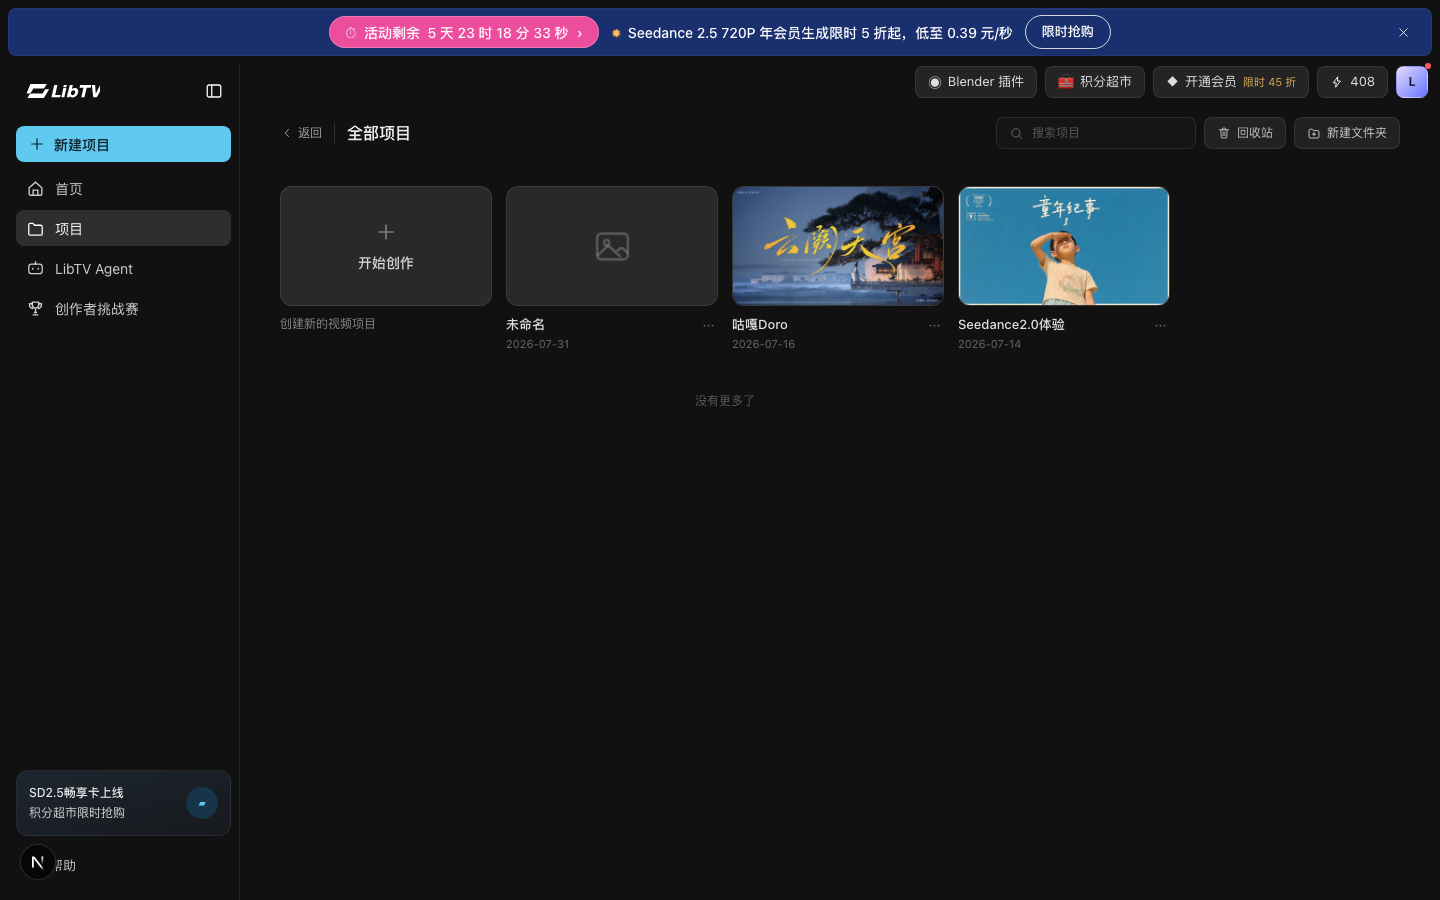
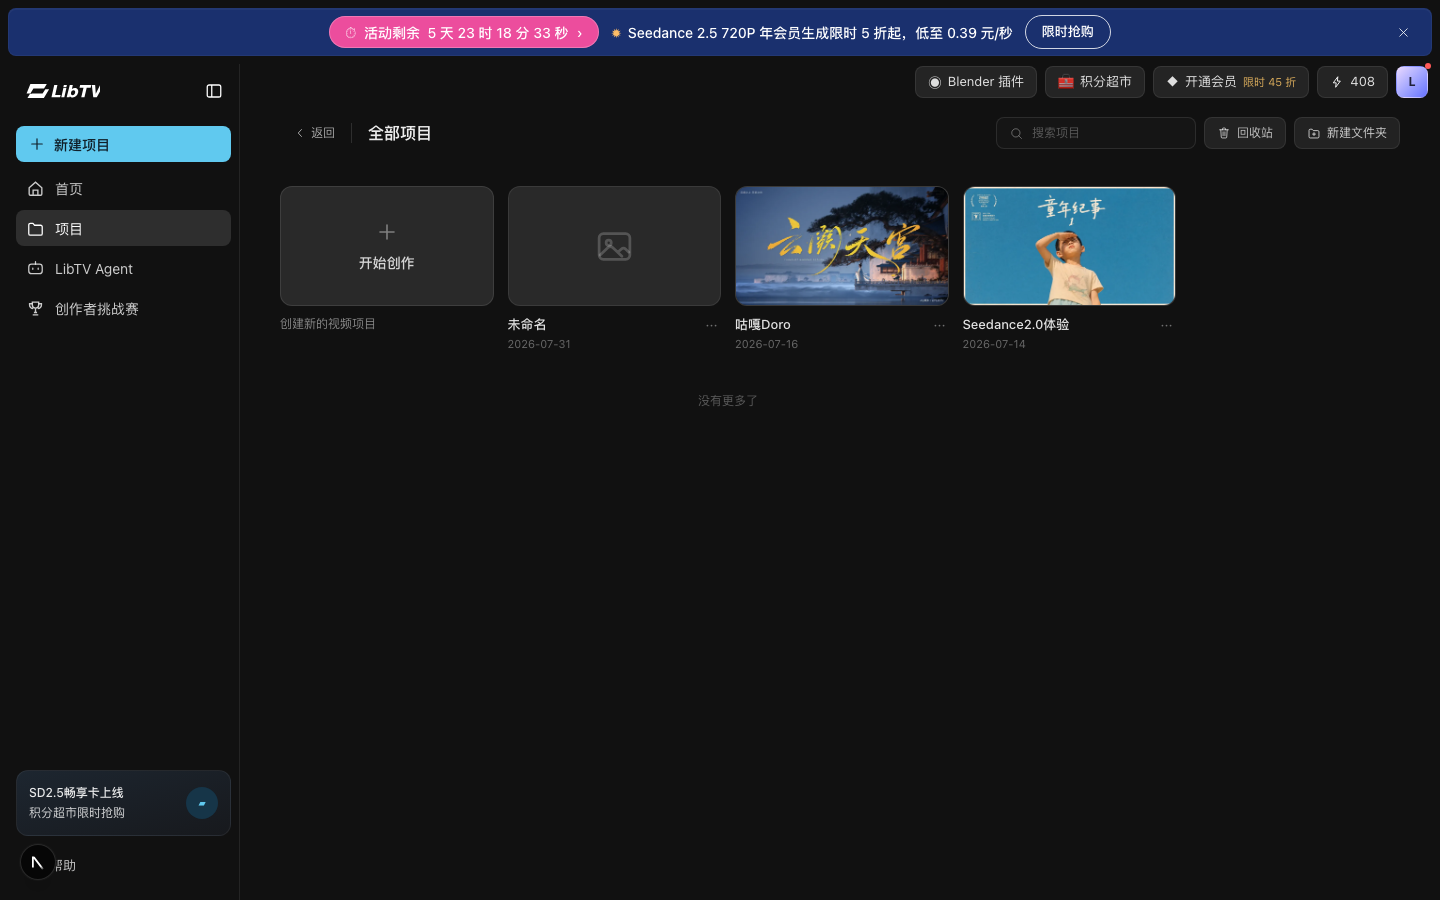
test: verify LibTV home and project parity

diff --git a/e2e/home-project.spec.ts b/e2e/home-project.spec.ts
@@ -36,8 +36,12 @@ test('authenticated shell collapses, reflows and persists with keyboard control'
 
   const expandedSidebar = await sidebar.boundingBox()
   const expandedContent = await content.boundingBox()
-  expect(expandedSidebar?.width).toBeGreaterThanOrEqual(228)
-  expect(expandedSidebar?.width).toBeLessThanOrEqual(236)
+  expect(expandedSidebar?.x).toBeGreaterThanOrEqual(7)
+  expect(expandedSidebar?.x).toBeLessThanOrEqual(9)
+  expect(expandedSidebar?.width).toBeGreaterThanOrEqual(230)
+  expect(expandedSidebar?.width).toBeLessThanOrEqual(234)
+  expect(expandedContent?.x).toBeGreaterThanOrEqual(238)
+  expect(expandedContent?.x).toBeLessThanOrEqual(242)
 
   const collapse = page.getByRole('button', { name: '收起侧边栏' })
   await collapse.focus()
@@ -47,7 +51,8 @@ test('authenticated shell collapses, reflows and persists with keyboard control'
   await expect(page.getByRole('button', { name: '展开侧边栏' })).toBeVisible()
   await expect.poll(async () => (await sidebar.boundingBox())?.width).toBeLessThanOrEqual(70)
   const collapsedContent = await content.boundingBox()
-  expect(collapsedContent?.x).toBeLessThan(expandedContent?.x ?? Number.POSITIVE_INFINITY)
+  expect(collapsedContent?.x).toBeGreaterThanOrEqual(66)
+  expect(collapsedContent?.x).toBeLessThanOrEqual(70)
 
   await page.reload()
   await expect(page.getByRole('button', { name: '展开侧边栏' })).toBeVisible()
@@ -83,7 +88,20 @@ test('project manager matches the four-card desktop layout and local interaction
   expect(firstCard?.x).toBeLessThanOrEqual(284)
   expect(firstCard?.width).toBeGreaterThanOrEqual(210)
   expect(firstCard?.width).toBeLessThanOrEqual(214)
+  expect(firstCard?.y).toBeGreaterThanOrEqual(178)
+  expect(firstCard?.y).toBeLessThanOrEqual(194)
   await page.screenshot({ path: 'docs/screenshots/libtv-project-local-1440x900.png', scale: 'css' })
+
+  await page.getByRole('button', { name: '收起侧边栏' }).click()
+  await expect.poll(async () => (await page.getByTestId('project-grid-item').first().boundingBox())?.x).toBeLessThanOrEqual(110)
+  const collapsedFirstCard = await page.getByTestId('project-grid-item').first().boundingBox()
+  expect(collapsedFirstCard?.x).toBeGreaterThanOrEqual(106)
+  expect(collapsedFirstCard?.x).toBeLessThanOrEqual(110)
+  expect(collapsedFirstCard?.width).toBeGreaterThanOrEqual(244)
+  expect(collapsedFirstCard?.width).toBeLessThanOrEqual(252)
+  await page.screenshot({ path: 'docs/screenshots/libtv-project-collapsed-local-1440x900.png', scale: 'css' })
+  await page.getByRole('button', { name: '展开侧边栏' }).click()
+  await expect.poll(async () => (await page.getByTestId('project-grid-item').first().boundingBox())?.x).toBeGreaterThanOrEqual(276)
 
   const search = page.getByRole('searchbox', { name: '搜索项目' })
   await search.fill('Doro')
@@ -123,8 +141,22 @@ test('home reproduces the campaign, creation, recent, Agent and TV Show hierarch
   const campaign = page.getByTestId('home-campaign-image')
   await expect(campaign).toBeVisible()
   await expect(campaign).toHaveAttribute('src', '/fixtures/libtv/home/theatre-banner.webp')
+  const campaignBox = await campaign.boundingBox()
+  expect(campaignBox?.x).toBeGreaterThanOrEqual(276)
+  expect(campaignBox?.x).toBeLessThanOrEqual(284)
+  expect(campaignBox?.y).toBeGreaterThanOrEqual(110)
+  expect(campaignBox?.y).toBeLessThanOrEqual(118)
+  expect(campaignBox?.width).toBeGreaterThanOrEqual(1116)
+  expect(campaignBox?.width).toBeLessThanOrEqual(1124)
+  expect(campaignBox?.height).toBeGreaterThanOrEqual(136)
+  expect(campaignBox?.height).toBeLessThanOrEqual(144)
   await expect(page.getByTestId('home-blank-canvas')).toBeVisible()
   await expect(page.getByTestId('creator-tool')).toHaveCount(6)
+  const creatorGridBox = await page.getByTestId('creator-tool-grid').boundingBox()
+  expect(creatorGridBox?.y).toBeGreaterThanOrEqual(270)
+  expect(creatorGridBox?.y).toBeLessThanOrEqual(286)
+  expect(creatorGridBox?.height).toBeGreaterThanOrEqual(198)
+  expect(creatorGridBox?.height).toBeLessThanOrEqual(202)
   await expect(page.getByTestId('home-recent-project')).toHaveCount(3)
 
   await expect(page.getByTestId('home-composer')).toHaveAttribute('placeholder', /说出你的创意/)

diff --git a/src/components/project/ProjectListPage.tsx b/src/components/project/ProjectListPage.tsx
@@ -184,21 +184,21 @@ export function ProjectListPage() {
 
         <section aria-label="项目列表" className="px-10 pb-16 pt-[26px]">
           {loading ? (
-            <div className="flex w-[890px] justify-center py-20 text-white/35">
+            <div className="flex w-4/5 justify-center py-20 text-white/35">
               <Spinner size={22} />
             </div>
           ) : (
             <>
-              <div className="grid w-[890px] grid-cols-[repeat(4,212px)] gap-x-[14px] gap-y-7">
-                <div data-testid="project-grid-item" className="w-[212px]">
+              <div data-testid="project-grid" className="grid w-4/5 grid-cols-4 gap-x-[14px] gap-y-7">
+                <div data-testid="project-grid-item" className="min-w-0">
                   <button
                     type="button"
                     data-testid="start-create"
                     data-grid-kind="create"
                     onClick={createProject}
-                    className="group w-[212px] text-left"
+                    className="group w-full text-left"
                   >
-                    <span className="flex h-[120px] w-[212px] flex-col items-center justify-center gap-2 rounded-xl border border-white/[0.1] bg-[#292929] text-white/80 transition-colors group-hover:border-white/[0.18] group-hover:bg-[#2d2d2d]">
+                    <span className="flex h-[120px] w-full flex-col items-center justify-center gap-2 rounded-xl border border-white/[0.1] bg-[#292929] text-white/80 transition-colors group-hover:border-white/[0.18] group-hover:bg-[#2d2d2d]">
                       <IconPlus size={24} className="text-white/40" />
                       <span className="text-[14px] font-medium">开始创作</span>
                     </span>
@@ -207,7 +207,7 @@ export function ProjectListPage() {
                 </div>
 
                 {visibleFolders.map((folder) => (
-                  <div key={folder.id} data-testid="project-grid-item" className="w-[212px]">
+                  <div key={folder.id} data-testid="project-grid-item" className="min-w-0">
                     <FolderCard
                       folder={folder}
                       renaming={renamingId === folder.id}
@@ -228,7 +228,7 @@ export function ProjectListPage() {
                 ))}
 
                 {visibleProjects.map((project) => (
-                  <div key={project.id} data-testid="project-grid-item" className="w-[212px]">
+                  <div key={project.id} data-testid="project-grid-item" className="min-w-0">
                     <ProjectCard
                       project={project}
                       renaming={renamingId === project.id}
@@ -249,10 +249,10 @@ export function ProjectListPage() {
               </div>
 
               {visibleProjects.length === 0 && visibleFolders.length === 0 && normalizedQuery && (
-                <p className="w-[890px] pt-12 text-center text-[12px] text-white/32">没有匹配的项目</p>
+                <p className="w-4/5 pt-12 text-center text-[12px] text-white/32">没有匹配的项目</p>
               )}
               {(visibleProjects.length > 0 || visibleFolders.length > 0) && (
-                <p className="w-[890px] pt-10 text-center text-[12px] text-white/30">没有更多了</p>
+                <p className="w-4/5 pt-10 text-center text-[12px] text-white/30">没有更多了</p>
               )}
             </>
           )}

diff --git a/src/components/project/ProjectCard.tsx b/src/components/project/ProjectCard.tsx
@@ -26,11 +26,11 @@ export function ProjectCard({ project, renaming, onRenameCancel, onRenameCommit,
     <article
       data-testid={`project-card-${project.id}`}
       data-grid-kind="project"
-      className="group w-[212px]"
+      className="group w-full"
     >
       <Link
         href={`/canvas?projectId=${encodeURIComponent(project.id)}`}
-        className="flex h-[120px] w-[212px] items-center justify-center overflow-hidden rounded-xl border border-white/[0.08] bg-[#292929] text-white/20 transition-colors hover:border-white/[0.17]"
+        className="flex h-[120px] w-full items-center justify-center overflow-hidden rounded-xl border border-white/[0.08] bg-[#292929] text-white/20 transition-colors hover:border-white/[0.17]"
       >
         {project.coverUrl ? (
           // eslint-disable-next-line @next/next/no-img-element
@@ -78,11 +78,11 @@ type FolderCardProps = {
 
 export function FolderCard({ folder, renaming, onOpen, onRenameCancel, onRenameCommit, onMenu }: FolderCardProps) {
   return (
-    <article data-testid={`folder-card-${folder.id}`} data-grid-kind="folder" className="group w-[212px]">
+    <article data-testid={`folder-card-${folder.id}`} data-grid-kind="folder" className="group w-full">
       <button
         type="button"
         onClick={onOpen}
-        className="flex h-[120px] w-[212px] items-center justify-center rounded-xl border border-white/[0.08] bg-[#242424] text-white/24 transition-colors hover:border-white/[0.17] hover:bg-[#292929]"
+        className="flex h-[120px] w-full items-center justify-center rounded-xl border border-white/[0.08] bg-[#242424] text-white/24 transition-colors hover:border-white/[0.17] hover:bg-[#292929]"
       >
         <IconFolder size={40} />
       </button>

diff --git a/src/components/home/TvShowFeed.tsx b/src/components/home/TvShowFeed.tsx
@@ -1,6 +1,7 @@
 'use client'
 
 import { useMemo, useState } from 'react'
+import Link from 'next/link'
 
 import { IconSearch } from '@/components/icons'
 import type { HomeDiscoveryResponse } from '@/contracts/home'
@@ -25,7 +26,9 @@ export function TvShowFeed({ categories, items }: TvShowFeedProps) {
 
   return (
     <section aria-labelledby="tv-show-title" className="mt-9 pb-20">
-      <h2 id="tv-show-title" className="px-1 text-[18px] font-semibold tracking-tight text-white">TV Show</h2>
+      <Link href="/showcase" aria-label="公开作品" className="inline-block px-1">
+        <h2 id="tv-show-title" className="text-[18px] font-semibold tracking-tight text-white">TV Show</h2>
+      </Link>
       <div className="mt-5 flex items-center gap-2 border-b border-white/[0.07] pb-3">
         <div className="no-scrollbar flex min-w-0 flex-1 gap-1 overflow-x-auto">
           {categories.map((item) => (

diff --git a/src/components/home/HomeAgentComposer.tsx b/src/components/home/HomeAgentComposer.tsx
@@ -1,6 +1,7 @@
 'use client'
 
 import { useState } from 'react'
+import Link from 'next/link'
 
 import { IconPlus, IconSend } from '@/components/icons'
 import type { HomeDiscoveryResponse } from '@/contracts/home'
@@ -76,9 +77,9 @@ export function HomeAgentComposer({ skills, submitting = false, onSubmit }: Home
             </button>
           )
         })}
-        <button type="button" aria-label="更多 Skill" className="flex h-8 w-8 shrink-0 items-center justify-center rounded-full bg-white/[0.045] text-white/65 transition-colors hover:bg-white/[0.08]">
+        <Link href="/skills" aria-label="技能库" className="flex h-8 w-8 shrink-0 items-center justify-center rounded-full bg-white/[0.045] text-white/65 transition-colors hover:bg-white/[0.08]">
           ▣
-        </button>
+        </Link>
       </div>
     </section>
   )

diff --git a/src/components/home/CreatorToolGrid.tsx b/src/components/home/CreatorToolGrid.tsx
@@ -33,7 +33,7 @@ function ToolGlyph({ tool }: { tool: CreatorTool }) {
 
 export function CreatorToolGrid({ tools, disabled = false, onBlank, onTool }: CreatorToolGridProps) {
   return (
-    <section aria-label="快捷创作" className="grid h-[200px] grid-cols-[2.04fr_repeat(3,minmax(0,1fr))] grid-rows-2 gap-2.5">
+    <section data-testid="creator-tool-grid" aria-label="快捷创作" className="grid h-[200px] grid-cols-[2.04fr_repeat(3,minmax(0,1fr))] grid-rows-2 gap-2.5">
       <button
         type="button"
         data-testid="home-blank-canvas"

diff --git a/src/components/project/ProjectToolbar.tsx b/src/components/project/ProjectToolbar.tsx
@@ -22,8 +22,8 @@ export function ProjectToolbar({
   onCreateFolder,
 }: ProjectToolbarProps) {
   return (
-    <header data-testid="project-toolbar" className="flex h-[54px] items-center justify-between px-10">
-      <div className="flex items-center gap-3">
+    <header data-testid="project-toolbar" className="flex h-[54px] items-center justify-between pl-[53px] pr-10">
+      <div className="flex items-center gap-4">
         {inFolder ? (
           <button
             type="button"

diff --git a/src/components/shell/AccountRail.tsx b/src/components/shell/AccountRail.tsx
@@ -43,7 +43,7 @@ export function AccountRail({ account }: AccountRailProps) {
       </RailButton>
       <Link
         href="/account"
-        aria-label="个人中心"
+        aria-label="账户"
         className="relative flex h-8 w-8 items-center justify-center rounded-lg border border-white/[0.08] bg-gradient-to-br from-[#e9d8ff] to-[#6872ff] text-[12px] font-bold text-[#20213a]"
       >
         L

diff --git a/docs/research/libtv/visual/home-project-comparison.md b/docs/research/libtv/visual/home-project-comparison.md
@@ -1,0 +1,51 @@
+# LibTV 首页与项目页视觉对照（1440×900）
+
+日期：2026-09-03  
+范围：登录态桌面 Shell、首页首屏、全部项目展开/收起态。画布与 Video 编辑器不在本批范围内。
+
+## 基准文件
+
+| Surface | 官网证据 | 本地实现 |
+|---|---|---|
+| 登录态首页 | [官网截图](../pages/home/screenshots/home-authenticated-desktop-1440x900-2026-09-03.png) | [本地截图](../../../screenshots/libtv-home-local-1440x900.png) |
+| 全部项目（展开） | [官网截图](../pages/home/screenshots/project-authenticated-desktop-1440x900-2026-09-03.png) | [本地截图](../../../screenshots/libtv-project-local-1440x900.png) |
+| 全部项目（收起） | [官网截图](../pages/home/screenshots/project-sidebar-collapsed-desktop-1440x900-2026-09-03.png) | [本地截图](../../../screenshots/libtv-project-collapsed-local-1440x900.png) |
+
+所有本地截图由 Playwright 的 `1440×900` CSS viewport、`scale: "css"` 生成。布局断言使用容差，避免字体栅格化差异导致伪失败。
+
+## 几何对照
+
+| 区域 | 官网约束 | 本地实测/断言 | 结果 |
+|---|---:|---:|---|
+| 活动条 | `(8, 8, 1424, 48)` | `(8, 8, 1424, 48)` | 对齐 |
+| 应用主体顶边 | `y=64` | `y=64` | 对齐 |
+| 展开侧栏 | `x=8, w≈232` | `x=8, w=232`，容差 `±2px` | 对齐 |
+| 展开内容起点 | `x≈240` | `x=240`，容差 `±2px` | 对齐 |
+| 收起侧栏/内容起点 | `x=0, w≈68` | `x=0, w=68`，容差 `±2px` | 对齐 |
+| 首页 Banner | `(280, 114, 1120, 140)` | 四项均以 `±4px` 断言 | 对齐 |
+| 快捷创作区 | `x≈280, y≈278, h≈200` | `y` 容差 `±8px`，`h` 容差 `±2px` | 对齐 |
+| 最近项目 | 三张约 `272×90` 横卡 | 固定 `max-width: 838px`、三列、`10px` 间距 | 对齐 |
+| 项目页展开卡 | `x≈280, w≈212, h≈120` 封面 | `x` 容差 `±4px`、列宽约 `214px`、封面 `120px` | 对齐 |
+| 项目页收起卡 | `x≈108, w≈247` | `x=108`、宽 `244..252px` | 对齐 |
+
+侧栏切换改变网格可用宽度，不覆盖内容；展开状态项目区使用可用宽度的 `80%`，因此与官网一样在收起后将四列从约 `212px` 放大到约 `247px`。
+
+## 交互对照
+
+- 主导航根据路由设置 `aria-current`；侧栏可由键盘触发，状态写入 `libtv.sidebar.collapsed` 并在刷新后恢复。
+- 首页空画布、六个创作工具和 Agent 有效草稿都会创建项目；工具入口把稳定 intent 写入 `brief`。
+- Skill 点击只改变当前输入上下文，不提前生成或扣费；空草稿发送保持禁用。
+- TV Show 分类和搜索在本地 fixture 上即时过滤；六张封面均来自 `/fixtures/libtv/showcase/`。
+- 项目搜索不发网络请求；回收站展示确定性空态；文件夹保持“立即创建未命名文件夹”的官网行为。
+- 项目/文件夹菜单、重命名、复制、移动和强确认删除沿用原有 API 与稳定测试 ID。
+
+## 已知且有意保留的 fixture 差异
+
+| 差异 | 处理 |
+|---|---|
+| 官网顶部倒计时持续变化 | 本地冻结为确定性文本，避免视觉基线随时间漂移。 |
+| 官网截图账户积分为当时实时值 | 本地显示 scenario 账本余额，确保生成、预留和返还测试一致。 |
+| 官网最近项目包含账户私有封面 | 本地空项目保留占位图，其余使用已登记的公开 LibTV 封面；不把私有媒体写入仓库。 |
+| 部分官网图标与字形来自闭源字体/图标包 | 本地使用同尺寸 SVG 与系统中文字体，几何和交互命中区保持一致。 |
+
+以上差异不改变信息架构、布局、可达动作或 API 契约。画布、节点、故事板和 Video 编辑器差异继续进入下一批，不计入本页完成结论。

diff --git a/docs/research/libtv/FEATURE_MATRIX.md b/docs/research/libtv/FEATURE_MATRIX.md
@@ -10,12 +10,27 @@
 - `PENDING`：尚未验证。
 - `COST_GATED`：需要真实生成、积分或付费，未获单独授权。
 
+## 本地复刻里程碑
+
+`VERIFIED_LOCAL` 表示该批次已用冻结官网证据、typed mock API、交互 E2E 和
+`1440×900` 本地截图共同验证；它不替代下方对官网未知状态的 `PARTIAL/PENDING` 标记。
+
+| Surface | 本地状态 | 已实现与验证 |
+|---|---|---|
+| 登录态桌面 Shell | `VERIFIED_LOCAL` | 活动条、展开/收起导航、账户操作栏、路由高亮、键盘可达、刷新持久化和内容重排。 |
+| 首页首屏 | `VERIFIED_LOCAL` | 8:1 Banner、大画布入口、六工具、三最近项目、Agent 输入和 TV Show 下折位置。 |
+| 首页发现与启动 | `VERIFIED_LOCAL` | `GET /api/home` typed contract、本地媒体约束、Skill 上下文、分类/搜索及三条创建路径。 |
+| 全部项目 | `VERIFIED_LOCAL` | 四列自适应卡宽、搜索、回收站空态、文件夹、菜单、重命名和强确认删除。 |
+
+几何数据、保留差异和截图配对见
+[`visual/home-project-comparison.md`](visual/home-project-comparison.md)。
+
 ## 入口与账户
 
 | Surface | 能力 | 状态 | 证据/缺口 |
 | --- | --- | --- | --- |
-| 首页 | 活动 Banner、开始创作、Seedance 快速体验 | `PARTIAL` | 首页总览已截图；两种启动后的路由差异待补。 |
-| 首页创作框 | 文本、附件、模型、Skill、生成模式 | `PARTIAL` | 配置、Skill 搜索/空态/添加已截图；真实提交待补。 |
+| 首页 | 活动 Banner、开始创作、Seedance 快速体验 | `PARTIAL` | 官网总览已截图；本地活动、六工具和 intent 启动已验证，官网两种启动后的完整服务端差异待补。 |
+| 首页创作框 | 文本、附件、模型、Skill、生成模式 | `PARTIAL` | 官网配置、Skill 搜索/空态/添加已截图；本地有效草稿与 Skill 上下文创建已验证，官网真实媒体提交待补。 |
 | 首次登录 | 获客问卷 | `PARTIAL` | 第一步已截图，后续步骤未提交。 |
 | 账户菜单 | 身份、UUID、团队、会员、积分、存储、设置 | `OBSERVED` | 登录态展开与亮/暗主题已截图；敏感凭据值不采集。 |
 | 凭据 | Access Key | `PARTIAL` | 入口已确认；出于安全不打开、不截图密钥。 |
@@ -44,8 +59,8 @@
 | Surface | 能力 | 状态 | 证据/缺口 |
 | --- | --- | --- | --- |
 | Workspace | create/list/update/use/unuse | `OFFICIAL` | CLI 契约已确认，Web 管理页待补。 |
-| Project/画布 | create/list/update/use/unuse | `OFFICIAL` | CLI/Web 动作已确认。 |
-| 项目文件夹 | 创建、打开、重命名、删除 | `PARTIAL` | 默认名、空态和强确认删除已实测；重命名会回滚，封面与移动待补。 |
+| Project/画布 | create/list/update/use/unuse | `OFFICIAL` | CLI/Web 动作已确认；本地项目列表、创建、打开、重命名和删除契约已覆盖。 |
+| 项目文件夹 | 创建、打开、重命名、删除 | `PARTIAL` | 官网默认名、空态和强确认删除已实测；本地完整生命周期已覆盖，官网封面与移动仍待补。 |
 | 多画布 | 创建/切换/复制/删除 | `OBSERVED` | 全链路已实测并清理临时画布。 |
 | 视图 | 工作流 / 故事板 | `OBSERVED` | 列映射、视频筛选/展开、媒体详情、Agent 引用和回切已截图。 |
 | 画布导航 | 平移、缩放、小地图、适应、整理、网格 | `PARTIAL` | 控件与快捷键已确认；细节状态待补。 |

diff --git a/docs/superpowers/plans/2026-09-03-authenticated-shell-home-project.md b/docs/superpowers/plans/2026-09-03-authenticated-shell-home-project.md
@@ -20,13 +20,13 @@
 
 ## Invariants
 
-- [ ] No runtime URL points at `liblib.tv`, `liblib.art` or `liblib.cloud`; every rendered image is local.
-- [ ] Components do not import fixture arrays directly; the API route is the boundary.
-- [ ] Existing project create/folder/delete tests keep their stable test IDs and semantics.
-- [ ] Sidebar collapse is keyboard reachable, persists in `localStorage`, and reflows rather than overlays content.
-- [ ] Authenticated shell is dark and scoped; canvas token migration is not smuggled into this batch.
-- [ ] Every new local route is in `LOCAL_API_ROUTES` and `docs/api/openapi.yaml`.
-- [ ] The user-owned untracked `.gitignore` is not staged or edited.
+- [x] No runtime URL points at `liblib.tv`, `liblib.art` or `liblib.cloud`; every rendered image is local.
+- [x] Components do not import fixture arrays directly; the API route is the boundary.
+- [x] Existing project create/folder/delete tests keep their stable test IDs and semantics.
+- [x] Sidebar collapse is keyboard reachable, persists in `localStorage`, and reflows rather than overlays content.
+- [x] Authenticated shell is dark and scoped; canvas token migration is not smuggled into this batch.
+- [x] Every new local route is in `LOCAL_API_ROUTES` and `docs/api/openapi.yaml`.
+- [x] The user-owned untracked `.gitignore` is not staged or edited.
 
 ---
 
@@ -358,15 +358,15 @@ git commit -m "feat: replicate LibTV project manager"
 - Create: `docs/research/libtv/visual/home-project-comparison.md`
 - Modify: `docs/research/libtv/FEATURE_MATRIX.md`
 
-- [ ] **Step 1: Add bounding-box assertions from official evidence**
+- [x] **Step 1: Add bounding-box assertions from official evidence**
 
 Use tolerances rather than hard-coded pixels for dynamic text: sidebar ±2px, banner ±4px, content origin ±4px, creator grid and project grid ±8px.
 
-- [ ] **Step 2: Inspect official/local screenshots side by side**
+- [x] **Step 2: Inspect official/local screenshots side by side**
 
 Record remaining differences in layout, typography, color, crop, state or interaction. Fix all high-salience differences in this batch; defer only canvas/video-specific gaps.
 
-- [ ] **Step 3: Run the full gate**
+- [x] **Step 3: Run the full gate**
 
 ```bash
 pnpm typecheck
@@ -378,7 +378,7 @@ pnpm e2e
 
 Expected: every command exits 0; only the intentionally opt-in production suite is skipped.
 
-- [ ] **Step 4: Check remote dependency and placeholder drift**
+- [x] **Step 4: Check remote dependency and placeholder drift**
 
 ```bash
 grep -RInE 'https?://(www\.)?liblib|liblib\.cloud|liblib\.art' src public || true
@@ -386,7 +386,7 @@ grep -RInE 'TODO|TBD|placeholder' src/components/home src/components/project src
 git diff --check
 ```
 
-- [ ] **Step 5: Commit verification record**
+- [x] **Step 5: Commit verification record**
 
 ```bash
 git add docs/research/libtv/visual docs/research/libtv/FEATURE_MATRIX.md e2e/home-project.spec.ts
